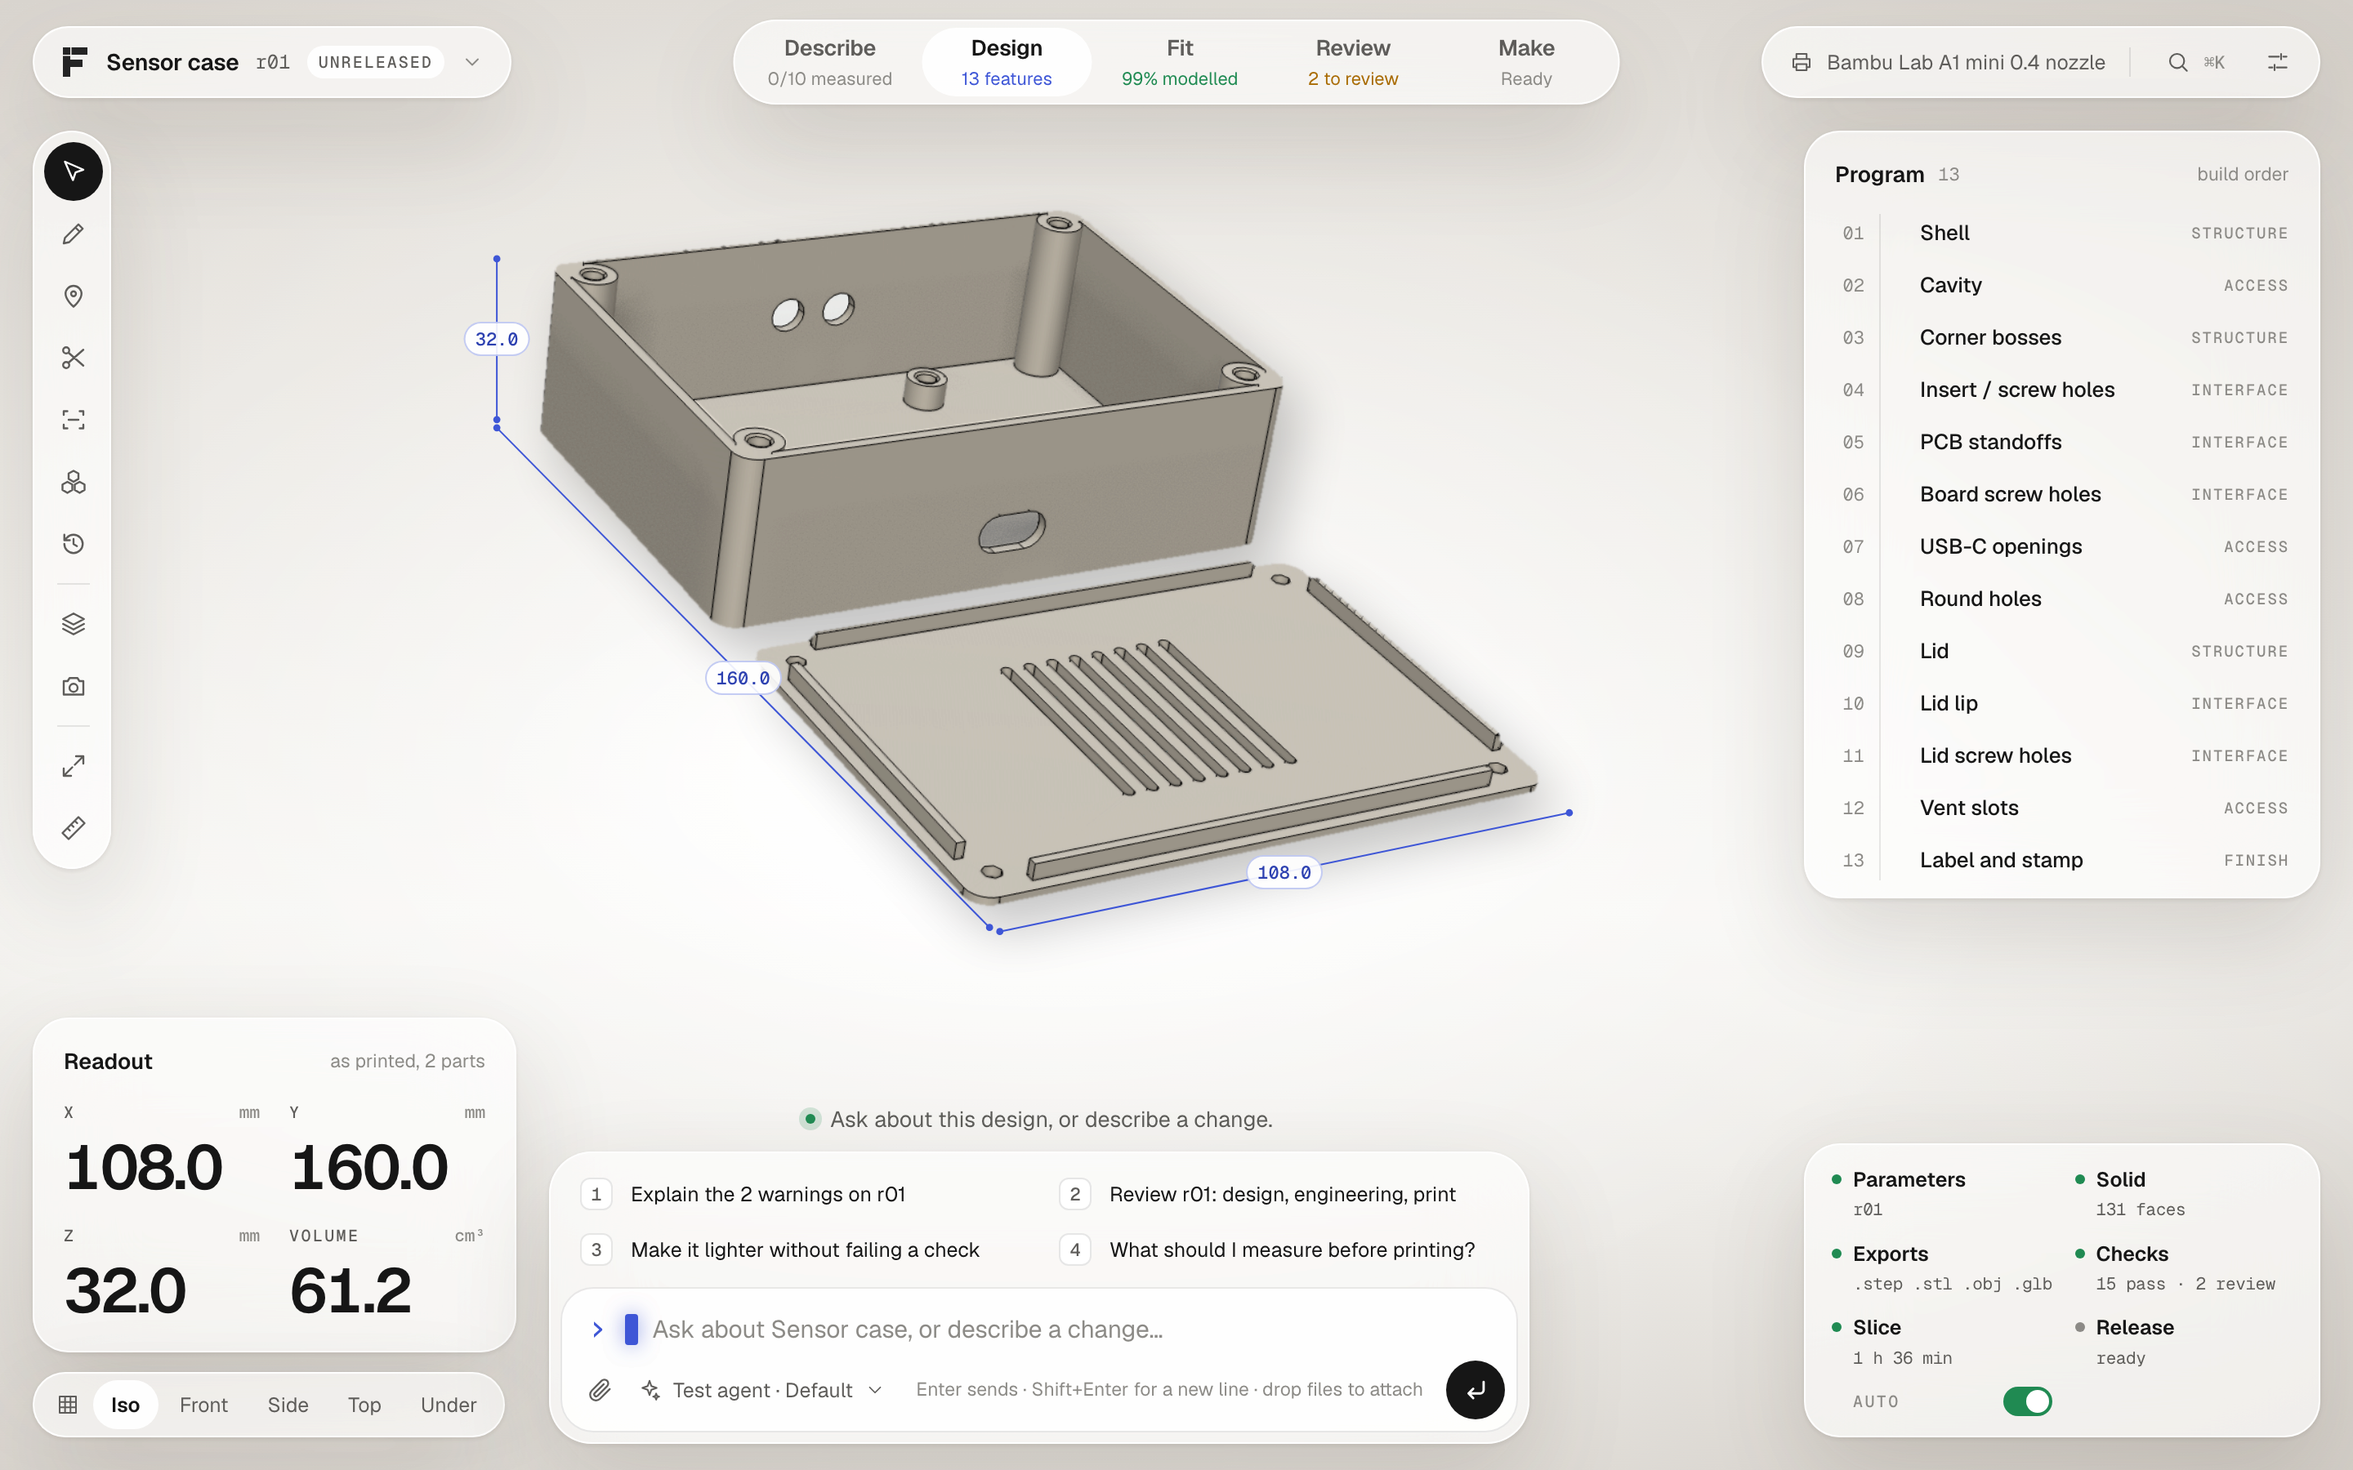
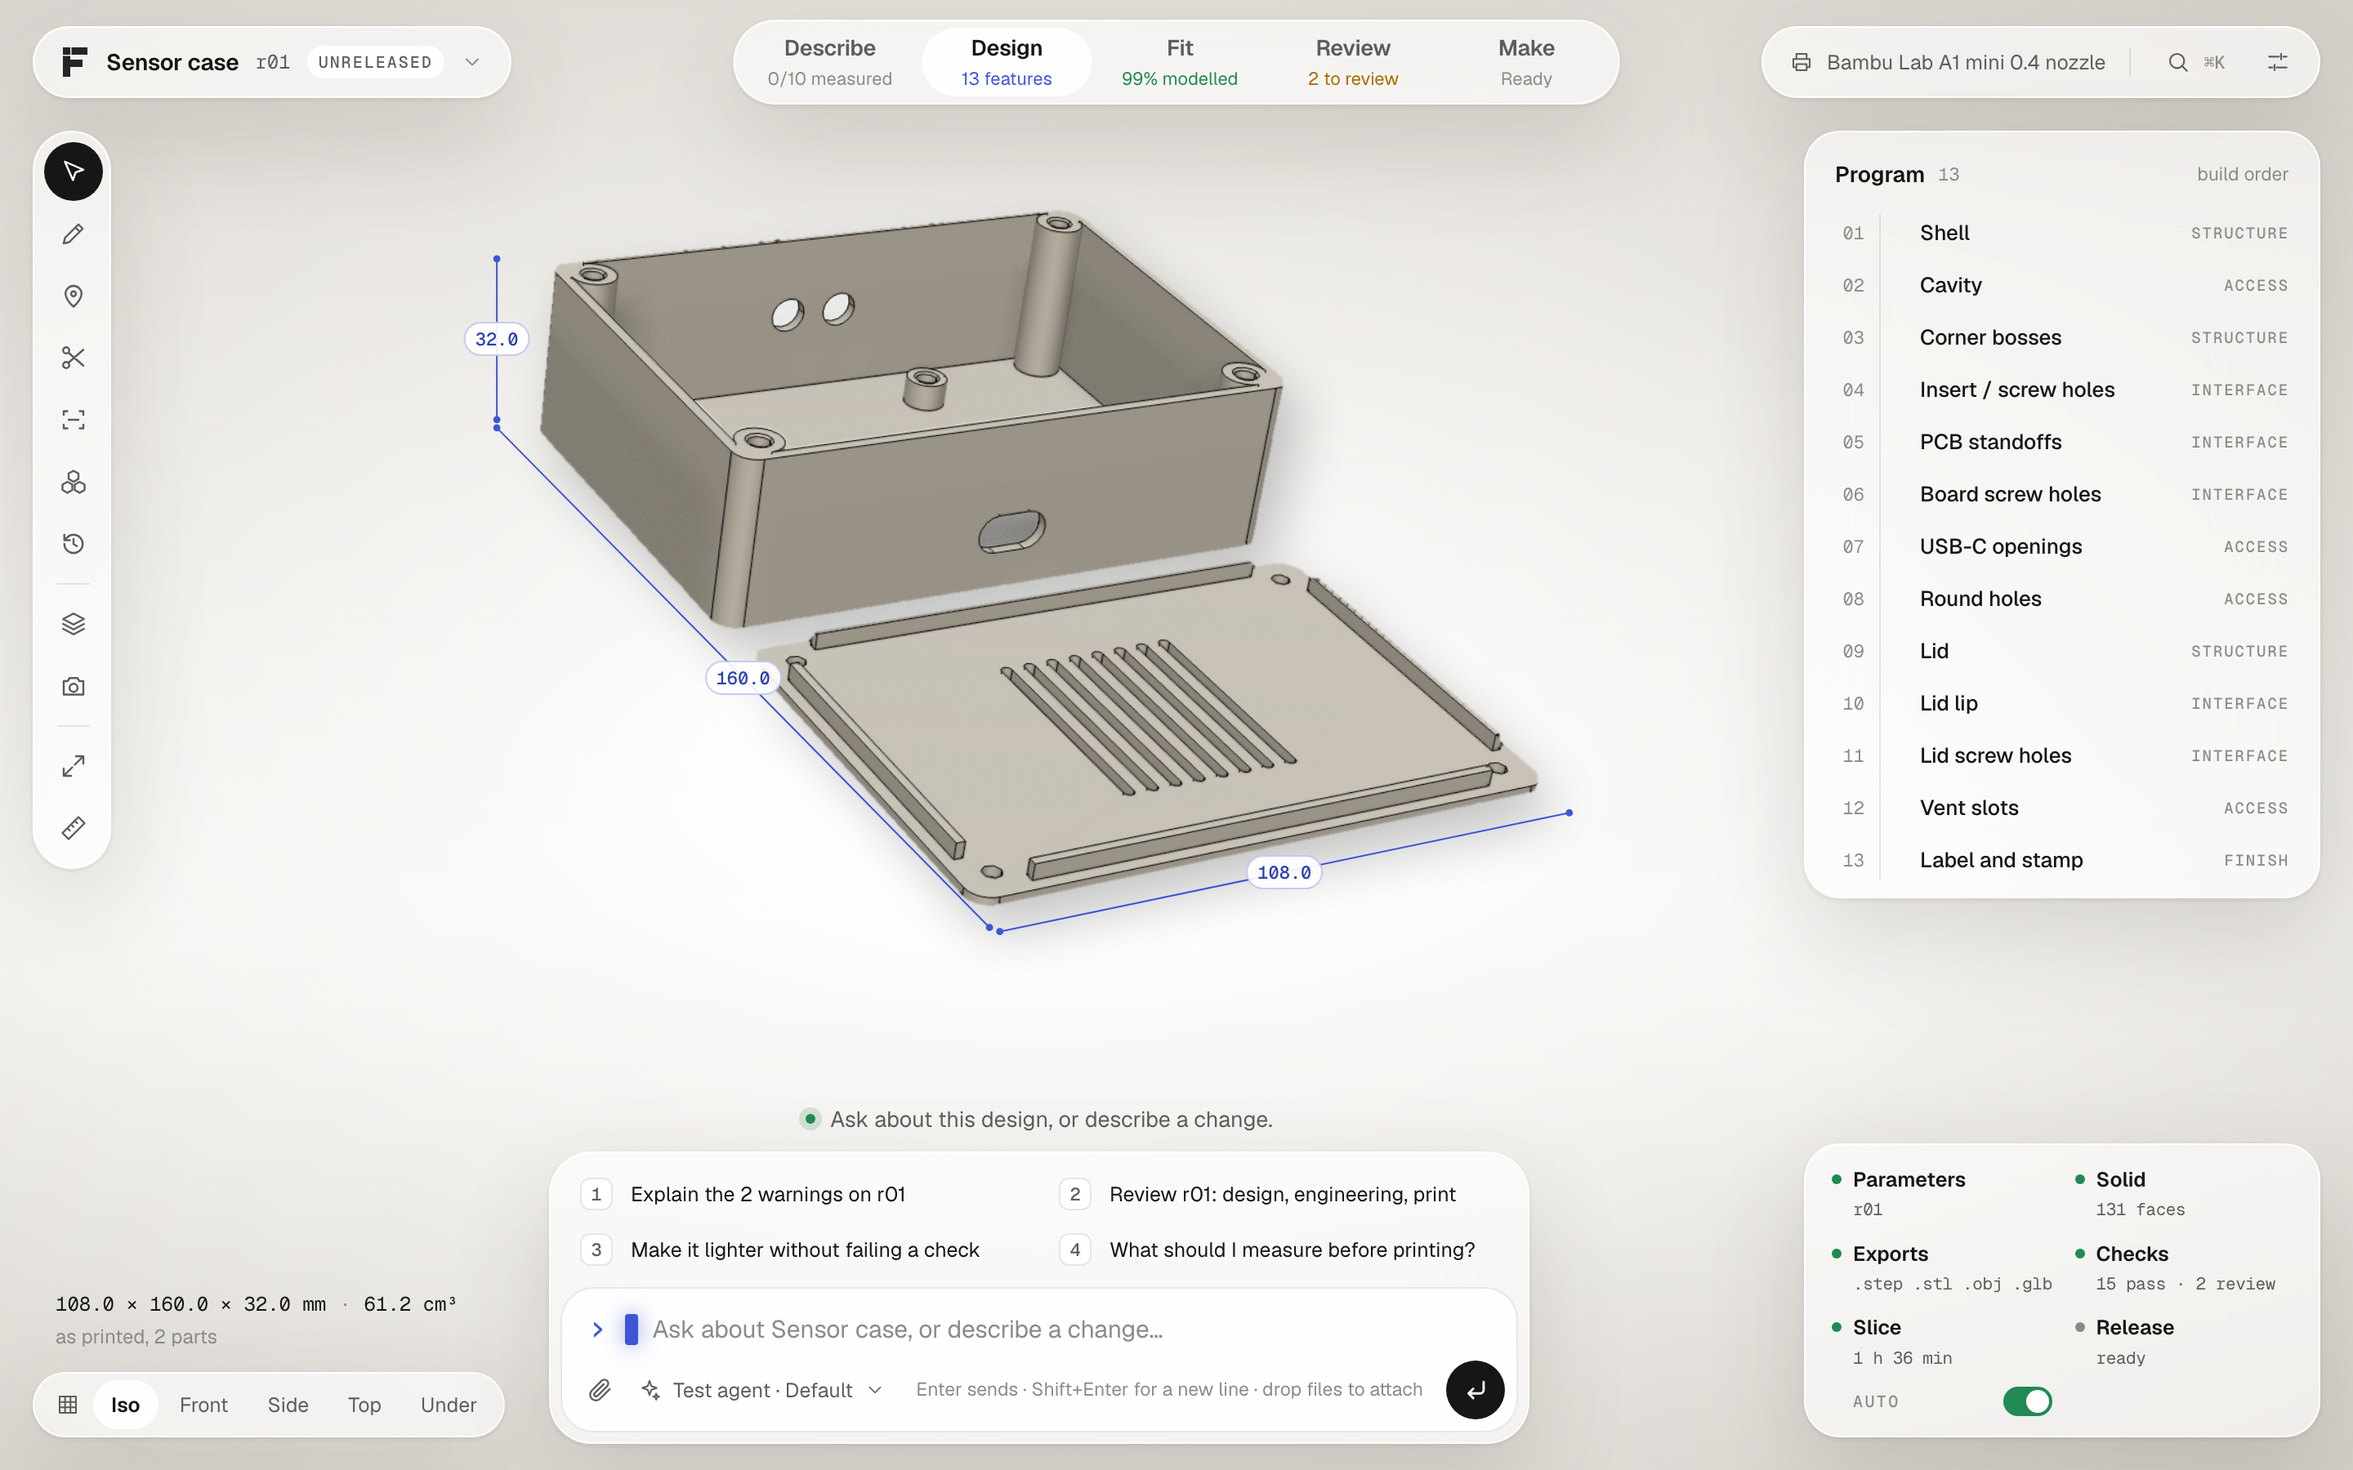
Lightdesk: the readout panel is gone; the size is A's small line above the view buttons
The dimensions are already on the part's dimension lines. While building, the line gives the size built so far (108.0 × 76.0 × 32.0 mm, as modelled so far), the same numbers as the picture. All H screens, the token sheet and compare.png are rendered again.

diff --git a/docs/design/directions/h/app.js b/docs/design/directions/h/app.js
@@ -1,5 +1,5 @@
-// Direction H, "Lightdesk": A's room and glass, with three instruments from B set into the panes:
-// large readouts, the features as a program listing that runs, and a command line with numbered completions.
+// Direction H, "Lightdesk": A's room and glass, with two instruments from B set into the panes:
+// the features as a program listing that runs, and a command line with numbered completions.
 const S = document.body.dataset.screen, D = DATA;
 const nn = (i) => String(i).padStart(2, "0");
 P.enter = "M19 5v7a3 3 0 01-3 3H6M10 11l-4 4 4 4";
@@ -14,10 +14,8 @@ const dock = () => `<div class="dock glass">${D.tools.map(([ic], i) => `${i === 
 const views = () => `<div class="views glass">${I("grid", 15)}${D.views.map((v, i) => `<span class="${i ? "" : "on"}">${v}</span>`).join("")}</div>`;
 const pipe = (list) => `<div class="pipe glass">${list.map(([n, v, st]) => `<div><b><i class="${st}"></i>${n}</b><span class="mono">${v}</span></div>`).join("")}<div class="auto"><b>Auto</b><span class="switch"></span></div></div>`;
 
-// From B: the readout. Four numbers you can read from across the room.
-const readout = (d) => `<section class="readout glass"><header><b>Readout</b><em>${d.note}</em></header><div class="cells">${
-  [["X", d.dims[0], "mm"], ["Y", d.dims[1], "mm"], ["Z", d.dims[2], "mm"], ["Volume", d.volume, "cm³"]].map(([k, v, u]) =>
-    `<div><span class="mono">${k}<small>${u}</small></span><b>${v}</b></div>`).join("")}</div></section>`;
+// A's size line. While building it gives the size built so far, the same numbers as the dimension lines on the part.
+const readout = (dims, volume, note) => `<p class="readout mono">${dims.join(" × ")} mm${volume ? `<i>·</i>${volume} cm³` : ""}<em>${note}</em></p>`;
 
 // From B: the features as a program listing. While the agent builds, the listing runs: the gutter lights down to the current line.
 function program(step, of) {
@@ -36,7 +34,7 @@ const prompt = (placeholder) => `<div class="prompt"><span class="gt mono">›</
 if (S === "workspace") document.body.insertAdjacentHTML("beforeend", `
   <div class="room"></div><div class="pool" style="left:286px;top:330px"></div>
   <div style="position:absolute;left:326px;top:124px">${part("case", 620)}</div>
-  ${title(D.design)}${stages(D.stages)}${right(D.design.printer)}${dock()}${program(0)}${pipe(D.pipeline)}${readout(D.design)}${views()}
+  ${title(D.design)}${stages(D.stages)}${right(D.design.printer)}${dock()}${program(0)}${pipe(D.pipeline)}${readout(D.design.dims, D.design.volume, D.design.note)}${views()}
   <section class="talk">
     <p class="lead"><span class="live"></span>${D.chat.lead}</p>
     <div class="cmd glass">${completions(D.chat.suggestions)}
@@ -46,7 +44,7 @@ if (S === "workspace") document.body.insertAdjacentHTML("beforeend", `
 if (S === "build") { const B = D.build; document.body.classList.add("building"); document.body.insertAdjacentHTML("beforeend", `
   <div class="room"></div><div class="pool" style="left:276px;top:250px"></div>
   <div style="position:absolute;left:366px;top:150px">${part("build", 540)}</div>
-  ${title(B)}${stages(B.stages)}${right("")}${dock()}${program(B.step, B.of)}${pipe(B.pipeline)}${readout(B)}${views()}
+  ${title(B)}${stages(B.stages)}${right("")}${dock()}${program(B.step, B.of)}${pipe(B.pipeline)}${readout(["108.0", "76.0", "32.0"], "", "as modelled so far")}${views()}
   <section class="third">
     <p class="over mono"><span class="live"></span>Building<i>${B.step} of ${B.of}</i></p>
     <h1><span class="mono">${nn(B.step)}</span>${B.feature}</h1>
@@ -71,19 +69,19 @@ if (S === "home") { const H = D.home; document.body.classList.add("home"); docum
   </section>`); }
 
 if (S === "tokens") document.body.insertAdjacentHTML("beforeend", tokenSheet({ letter: "H", name: "Lightdesk",
-  why: "A's room with B's instruments. The window is still a photo studio: the part alone in a pool of warm light, every control a pane of glass. Set into those panes are the three things that made Console honest: the dimensions as numbers you can read from across the room, the features as a program that runs line by line while the agent builds, and a command line with numbered completions as the one bar under the part. A lighting desk does the same job in a theatre: a quiet console that runs a cue list and moves the light. One signal colour, periwinkle, for one meaning: this is where you are. It is the complement of the warm key light, keeps its hue on paper, and leaves green free to mean pass.",
+  why: "A's room with B's instruments. The window is still a photo studio: the part alone in a pool of warm light, every control a pane of glass. Set into those panes are the two things that made Console honest: the features as a program that runs line by line while the agent builds, and a command line with numbered completions as the one bar under the part. The dimensions stay on the part, on its dimension lines. A lighting desk does the same job in a theatre: a quiet console that runs a cue list and moves the light. One signal colour, periwinkle, for one meaning: this is where you are. It is the complement of the warm key light, keeps its hue on paper, and leaves green free to mean pass.",
   type: [["d1", "What do you want to make?", "Geist 600 · 68/1.0 · −0.04em"], ["d2", "<span class='mono'>06</span>Board screw holes", "Geist 600 · 52/1.0 · −0.035em"],
-    ["d7", "108.0<small>mm</small>", "Geist 600 tabular · 38/1.0 · readouts"], ["d3", "Sensor case", "Geist 600 · 15 · names, buttons"],
+    ["d3", "Sensor case", "Geist 600 · 15 · names, buttons"],
     ["d4", "Ask about this design, or describe a change.", "Geist 400 · 13/1.45 · reading"],
     ["d5 mono", "06  Board screw holes  BUILDING", "Geist Mono 500 · 11 · listing, keys, small numbers"], ["d6 mono", "BUILDING · 6 OF 12", "Geist Mono 500 · 11 · +0.14em caps"]],
-  dark: [["room", "#0b0b0c", "the studio"], ["glass", "rgba(255,255,255,.07)", "blur 28, every pane"], ["ink", "#f4f3f1", "text, readouts"], ["ink 2", "#a9a8a5", "labels"],
+  dark: [["room", "#0b0b0c", "the studio"], ["glass", "rgba(255,255,255,.07)", "blur 28, every pane"], ["ink", "#f4f3f1", "text"], ["ink 2", "#a9a8a5", "labels"],
     ["key light", "#ffe9cf", "the pool, warm"], ["signal", "#a9b8ff", "the one accent: here, now"], ["pass", "#86d9a8", "state dot, built line"], ["review", "#f2c36b", "state only"]],
   light: [["room", "#eeece8", "paper sweep"], ["glass", "rgba(255,255,255,.62)", "blur 28"], ["ink", "#161616", ""], ["ink 2", "#5d5c59", ""],
     ["key light", "#ffffff", ""], ["signal", "#3d55d6", "same hue, as ink"], ["pass", "#1f8a52", ""], ["review", "#a86a00", ""]],
   depth: [["l0", "Room", "the 3D view, edge to edge"], ["l1 glass", "Glass", "blur 28 · 1 px light edge · shadow 24/60"], ["l2 glass", "Well / raised", "the prompt, the running line"]],
   shape: "Capsules: radius 22 on panes, full on buttons, 10 on listing lines and keys. No dividers: the one drawn line is the listing's gutter, and it is the progress bar. 20 px from the window edge, 12 px between panes.",
   motion: [["Line executes", "the gutter lights down to the next line, 140 ms; the row's glass follows"], ["Light answers", "pool narrows and warms on build, 600 ms ease-in-out"],
-    ["Readout changes", "digits roll per place, 160 ms"], ["Completions", "instant, no fade: the bar is used all day"], ["Panes", "fade + 8 px rise, 180 ms ease-out"], ["Reduce Motion", "opacity only; the gutter jumps, digits swap"]],
+    ["Feature lands", "segment fills, 220 ms; the new faces flash key-light, 320 ms"], ["Completions", "instant, no fade: the bar is used all day"], ["Panes", "fade + 8 px rise, 180 ms ease-out"], ["Reduce Motion", "opacity only; the gutter jumps"]],
   signature: "The cue: the lower-third title over the room and the same line lit in the program listing, with the gutter filled down to it.",
-  qt: "As A: glass is MultiEffect blur over a ShaderEffectSource of the View3D, with a solid fallback (plate at 92 %). The listing is the existing feature ListView with a mono number and a 1 px gutter Rectangle whose lit height animates. The readout is four Text items in Geist with tabular figures. The bar is the existing composer; completions are the existing suggestion chips given number keys.",
+  qt: "As A: glass is MultiEffect blur over a ShaderEffectSource of the View3D, with a solid fallback (plate at 92 %). The listing is the existing feature ListView with a mono number and a 1 px gutter Rectangle whose lit height animates. The bar is the existing composer; completions are the existing suggestion chips given number keys.",
 }));

diff --git a/docs/design/directions/h/style.css b/docs/design/directions/h/style.css
@@ -1,4 +1,4 @@
-/* Direction H, "Lightdesk": A's room and glass, B's readout, listing and command line. Geist + Geist Mono (SIL OFL 1.1).
+/* Direction H, "Lightdesk": A's room and glass, B's program listing and command line. Geist + Geist Mono (SIL OFL 1.1).
    One accent: periwinkle (--accent). Pass and review stay as small state colours only. */
 :root { --sans: "Geist", sans-serif; --mono: "Geist Mono", monospace; --display: "Geist", sans-serif; --display-w: 600; --display-track: -.04em;
   --bg: #0b0b0c; --ink: #f4f3f1; --ink2: #a9a8a5; --ink3: #74736f; --line: rgba(255,255,255,.09); --accent: #a9b8ff; --pass: #86d9a8; --warn: #f2c36b;
@@ -96,8 +96,8 @@ figcaption .mono { font-size: 11px; color: var(--ink3); } figcaption em { flex-b
 
 /* ---- H: the three instruments, in glass ---- */
 header b { font-size: 13.5px; font-weight: 600; }
-.program header, .readout header { height: 40px; display: flex; align-items: center; gap: 8px; }
-.program header span { color: var(--ink3); font-size: 11px; } .program header em, .readout header em { margin-left: auto; font-style: normal; font-size: 11.5px; color: var(--ink3); }
+.program header { height: 40px; display: flex; align-items: center; gap: 8px; }
+.program header span { color: var(--ink3); font-size: 11px; } .program header em { margin-left: auto; font-style: normal; font-size: 11.5px; color: var(--ink3); }
 .program header .run { color: var(--accent); font-size: 11px; letter-spacing: .14em; text-transform: uppercase; display: flex; align-items: center; gap: 9px; }
 .program header .run .live { background: var(--accent); box-shadow: 0 0 0 4px color-mix(in srgb, var(--accent) 22%, transparent); }
 
@@ -115,14 +115,9 @@ header b { font-size: 13.5px; font-weight: 600; }
 .ln.now { background: var(--glass2); box-shadow: inset 0 1px 0 rgba(255,255,255,.1); } .ln.now b { font-weight: 600; }
 .ln.now .no, .ln.now .gl, .ln.now .kw { color: var(--accent); }
 
-/* readout */
-.readout { position: absolute; left: 20px; bottom: 72px; width: 296px; border-radius: 22px; padding: 6px 18px 18px; }
-.cells { display: grid; grid-template-columns: 1fr 1fr; gap: 16px 18px; margin-top: 4px; }
-.cells div { display: grid; gap: 7px; }
-.cells span { font-size: 10px; font-weight: 500; letter-spacing: .12em; text-transform: uppercase; color: var(--ink2); display: flex; justify-content: space-between; align-items: baseline; }
-.cells small, .d7 small { font: 500 10.5px/1 var(--mono); letter-spacing: 0; text-transform: none; color: var(--ink3); }
-/* Geist, not Geist Mono: the mono's zero is slashed and reads as an 8 from across the room. Tabular figures keep the columns still. */
-.cells b, .tokens .d7 { font: 600 38px/1 var(--sans); letter-spacing: -.035em; font-feature-settings: "tnum"; }
+/* the size line, as A: small, above the view buttons. The dimensions are already on the part. */
+.readout { position: absolute; left: 34px; bottom: 74px; font-size: 12px; color: var(--ink); white-space: nowrap; } .readout i { margin: 0 8px; color: var(--ink3); font-style: normal; }
+.readout em { display: block; font: 400 12px var(--sans); color: var(--ink3); margin-top: 3px; }
 
 /* the bar: completions + prompt, one pane */
 .cmd { border-radius: 26px; padding: 6px; }
@@ -151,7 +146,6 @@ html.light .well { background: rgba(255,255,255,.82); }
 figcaption .no { color: var(--ink3); }
 
 /* token sheet */
-.tokens .d7 small { margin-left: 6px; }
 .tokens .d2 .mono { font-size: 12px; font-weight: 500; letter-spacing: 0; color: var(--accent); vertical-align: 9px; margin-right: 8px; }
 .tokens .type .spec { padding: 7px 0; }
 html.light .k { box-shadow: inset 0 0 0 1px rgba(0,0,0,.1); } html.light .cap .mark { filter: brightness(0); opacity: .85; }

diff --git a/docs/design/directions/tools/compare.py b/docs/design/directions/tools/compare.py
@@ -9,7 +9,7 @@ from PIL import Image, ImageDraw, ImageFont
 ROOT = Path(__file__).resolve().parents[1]
 FONT = ROOT.parents[2] / "form/app/assets/fonts/InstrumentSans.ttf"
 COLS = [("a", "A  Lightbox", "full-bleed studio, floating glass"),
-        ("h", "H  Lightdesk", "A's room and light, B's readout, listing and command line"),
+        ("h", "H  Lightdesk", "A's room and light, B's program listing and command line"),
         ("b", "B  Console", "command line, program listing, readouts")]
 BG, INK, INK2 = (9, 9, 10), (240, 238, 234), (150, 148, 144)
 
